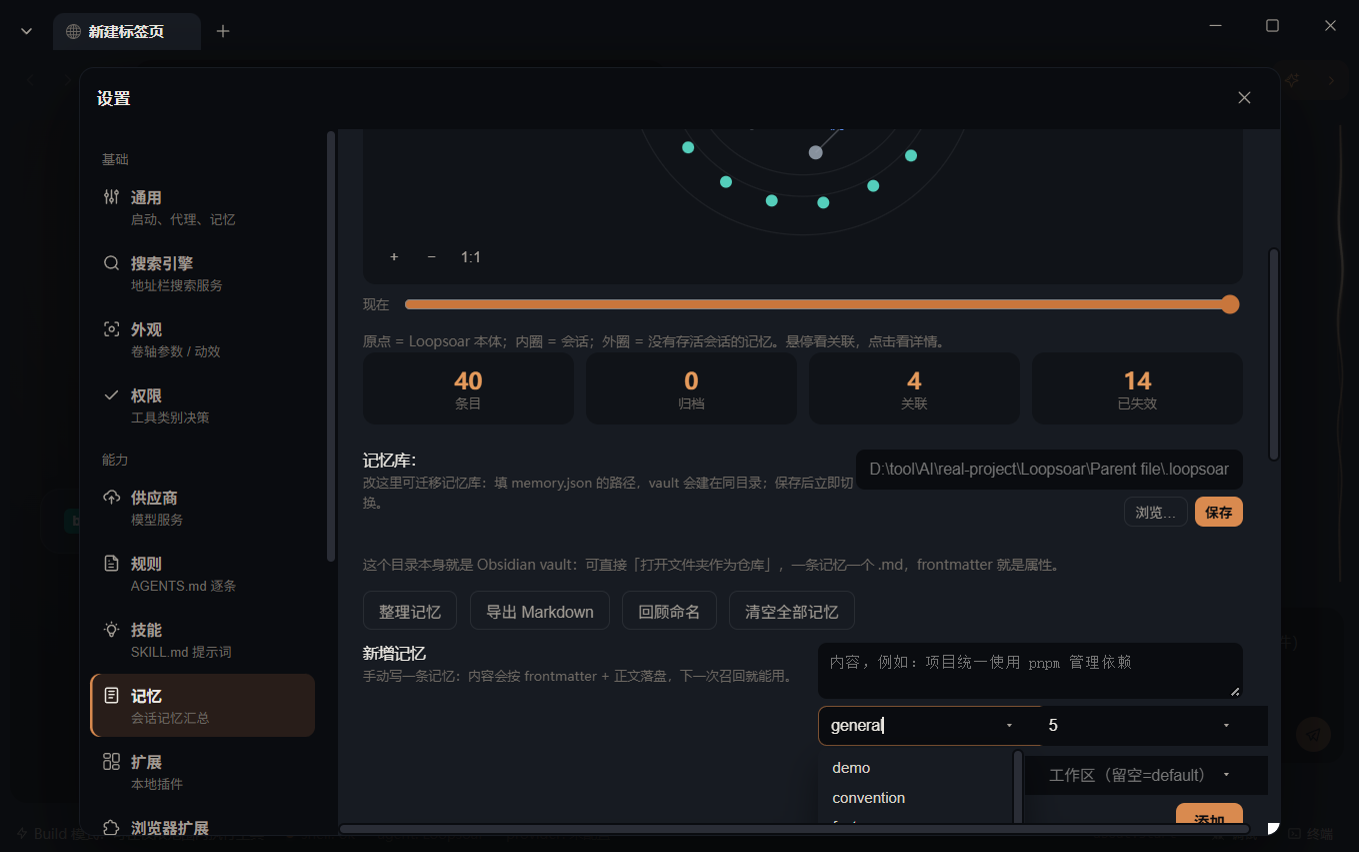
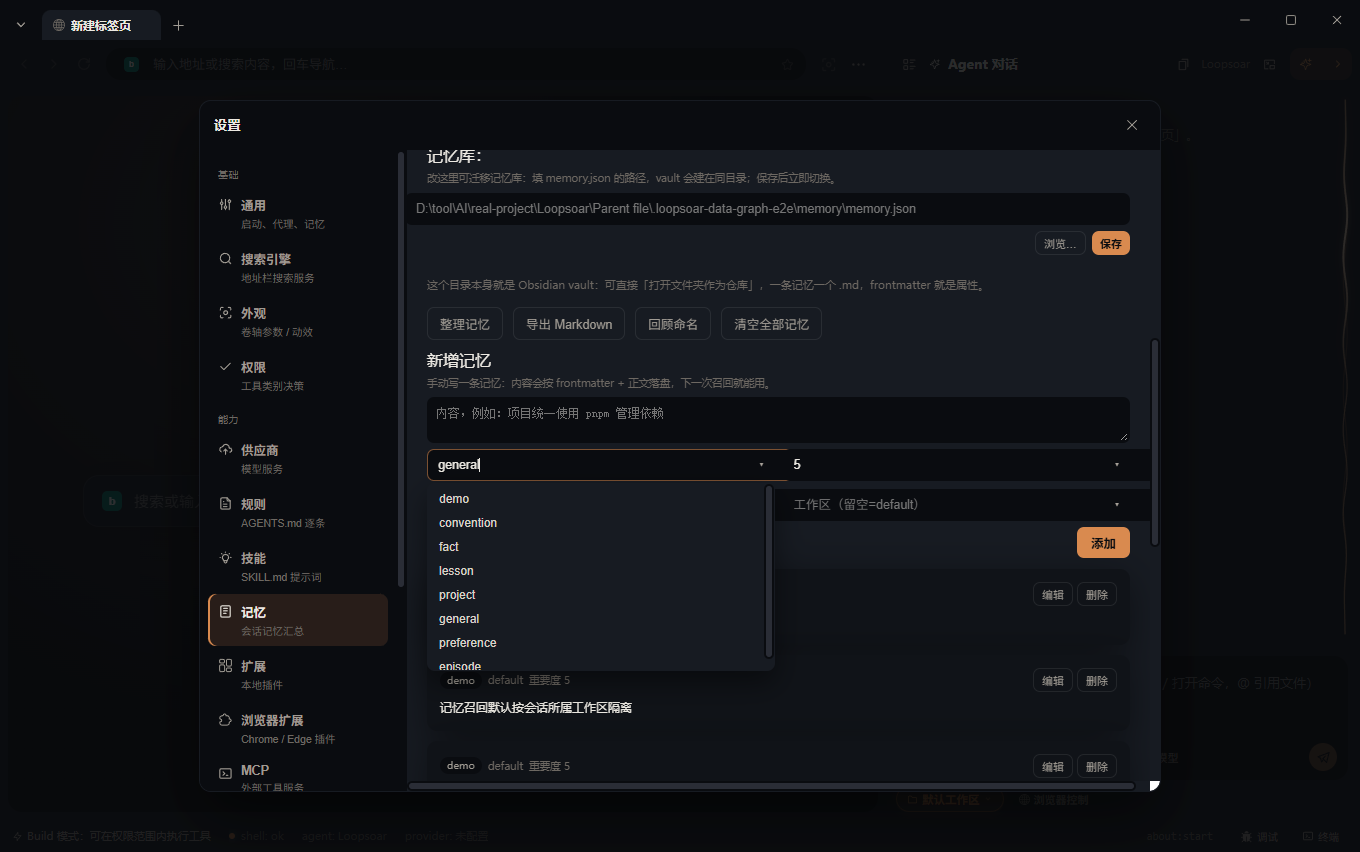
fix(ui): 记忆区改全宽块布局（路径/新增记忆不再左右分栏）
路径与新增记忆改为全宽块：标题/提示在上，输入与下拉网格撑满宽度，提交按钮独立右对齐；表单网格 width:100%，修复窄窗口下的挤压与视觉错位。

diff --git a/packages/ui/src/Settings.tsx b/packages/ui/src/Settings.tsx
@@ -1476,11 +1476,14 @@ export default function Settings({ api, onClose, onPreferencesSaved, initialSect
             <Stat l={tr("settings.memory.links")} v={mem.stats.links} />
             <Stat l={tr("settings.memory.invalidated")} v={mem.stats.invalidated ?? 0} />
           </div>
-          <Field l={tr("settings.memory.store")} h={tr("settings.memory.storeHint")}>
+          <div style={memoryBlock}>
+            <div style={S.meta}>{tr("settings.memory.store")}</div>
+            <div style={S.fieldHint}>{tr("settings.memory.storeHint")}</div>
             <div style={S.col}>
               <In
                 v={prefs?.memoryStorePath ?? ""}
                 ph={locations?.defaultMemoryFile ?? ""}
+                style={{ maxWidth: "none" }}
                 on={(x) => {
                   if (prefs) setPrefs({ ...prefs, memoryStorePath: x });
                 }}
@@ -1514,7 +1517,7 @@ export default function Settings({ api, onClose, onPreferencesSaved, initialSect
               />
               </div>
             </div>
-          </Field>
+          </div>
           <div style={S.note}>{tr("settings.memory.vaultHint")}</div>
           {mem.reconciling ? <div style={S.note}>{tr("settings.memory.reconciling")}</div> : null}
           {workspaceIds.length > 1 ? (
@@ -1611,9 +1614,11 @@ export default function Settings({ api, onClose, onPreferencesSaved, initialSect
               {review.available && review.suggestions.length === 0 && review.merges.length === 0 ? <div style={S.muted}>{tr("settings.memory.reviewEmpty")}</div> : null}
             </div>
           ) : null}
-          <Field l={tr("settings.memory.addTitle")} h={tr("settings.memory.addHint")}>
+          <div style={memoryBlock}>
+            <div style={S.meta}>{tr("settings.memory.addTitle")}</div>
+            <div style={S.fieldHint}>{tr("settings.memory.addHint")}</div>
             <div style={S.col}>
-              <Area v={mForm.content} rows={2} ph={tr("settings.memory.addContentPh")} on={(x) => setMForm({ ...mForm, content: x })} />
+              <Area v={mForm.content} rows={2} full ph={tr("settings.memory.addContentPh")} on={(x) => setMForm({ ...mForm, content: x })} />
               <div style={memoryFormGrid}>
                 <Combo v={mForm.category} ph={tr("settings.memory.addCategoryPh")} on={(x) => setMForm({ ...mForm, category: x })} options={categoryOptions} />
                 <Combo v={mForm.importance} ph={tr("settings.memory.addImportancePh")} on={(x) => setMForm({ ...mForm, importance: x })} options={importanceOptions} />
@@ -1624,7 +1629,7 @@ export default function Settings({ api, onClose, onPreferencesSaved, initialSect
                 <Btn label={tr("settings.add")} primary onClick={() => void addMemory()} />
               </div>
             </div>
-          </Field>
+          </div>
           {shownFacts.length === 0 ? <div style={S.dashed}>{tr("settings.memory.empty")}</div> : pageFacts.map((f) => (
             <div key={f.id} className="panel-card" style={S.card}>
               <div style={S.rowBetween}>
@@ -2166,10 +2171,19 @@ function Combo({ v, ph, on, options }: { v: string; ph?: string; on: (x: string)
   );
 }
 
+const memoryBlock: React.CSSProperties = {
+  display: "flex",
+  flexDirection: "column",
+  gap: 6,
+  padding: "10px 0",
+  borderBottom: `1px solid ${BRAND.border}`,
+};
+
 const memoryFormGrid: React.CSSProperties = {
   display: "grid",
   gridTemplateColumns: "repeat(2, minmax(0, 1fr))",
   gap: 8,
+  width: "100%",
 };
 const comboWrap: React.CSSProperties = { position: "relative", minWidth: 0 };
 const comboArrow: React.CSSProperties = {
@@ -2215,10 +2229,16 @@ const comboItem: React.CSSProperties = {
 function In({ v, ph, on, type, style }: { v: string; ph?: string; on: (x: string) => void; type?: string; style?: React.CSSProperties }) {
   return <input style={{ ...S.input, ...style }} value={v} placeholder={ph} type={type ?? "text"} onChange={(e) => on(e.target.value)} />;
 }
-function Area({ v, rows, on, wide, ph }: { v: string; rows: number; on: (x: string) => void; wide?: boolean; ph?: string }) {
+function Area({ v, rows, on, wide, full, ph }: { v: string; rows: number; on: (x: string) => void; wide?: boolean; full?: boolean; ph?: string }) {
   return (
     <textarea
-      style={wide ? { ...S.area, maxWidth: "none", width: "100%", minWidth: 240, fontFamily: "ui-monospace, Consolas, monospace" } : S.area}
+      style={
+        wide
+          ? { ...S.area, maxWidth: "none", width: "100%", minWidth: 240, fontFamily: "ui-monospace, Consolas, monospace" }
+          : full
+            ? { ...S.area, maxWidth: "none", width: "100%" }
+            : S.area
+      }
       rows={rows}
       value={v}
       placeholder={ph ?? (wide ? "x-opencode-session: {{sessionId}}\nUser-Agent: Loopsoar/1.0" : undefined)}

diff --git a/docs/PROGRESS.md b/docs/PROGRESS.md
@@ -1294,4 +1294,5 @@ E2E hooks：`LOOPSOAR_E2E_OPEN`（settings&section=… / chat / model-menu）、
 - 验证：208 文件 / 1710 用例全绿；typecheck/build/gen-check 全过；E2E 两张截图。
 
 - 记忆表单四个字段加下拉建议（分类/标签/工作区取现有值，重要度 1–10，可自由输入）；表单两列网格、提交按钮独立一行。
+- 记忆区改为全宽块布局（路径/新增记忆不再用左右分栏 Field），表单网格撑满宽度，修复挤压与错位。
 
